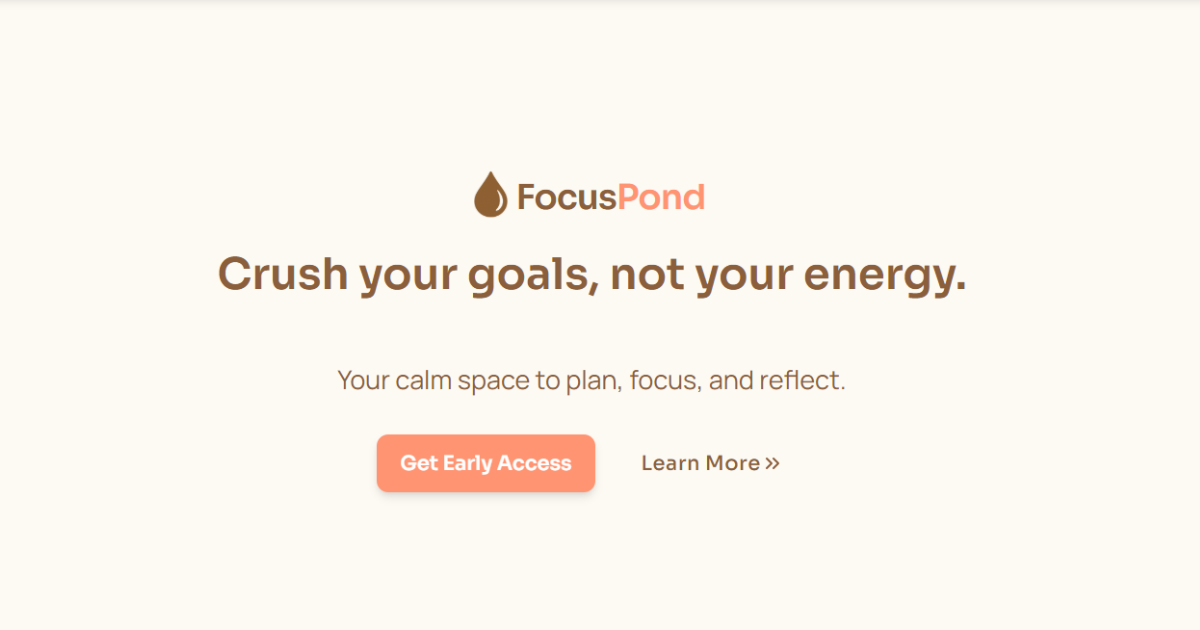
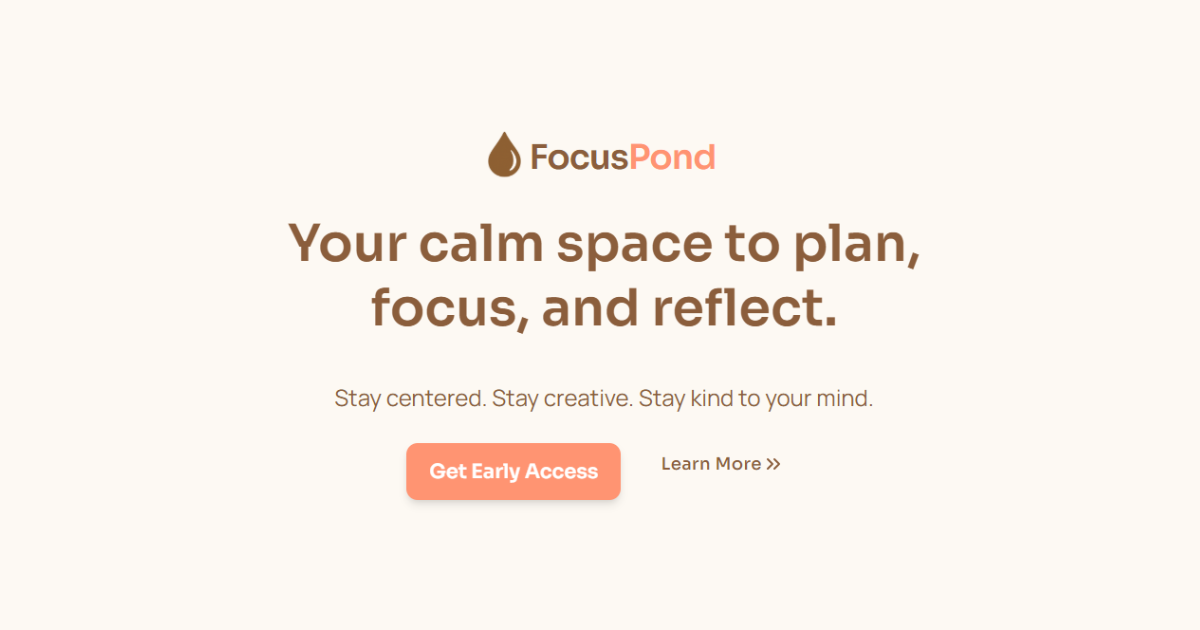
bug: restore hero section and fixed build error

Changed region(s): [[0.185, 0.2111, 0.8017, 0.5429], [0.2775, 0.573, 0.74, 0.8143]]

diff --git a/src/app/(landing-page)/_components/Hero.tsx b/src/app/(landing-page)/_components/Hero.tsx
@@ -1,113 +1,35 @@
 "use client";
 
-// import clsx from "clsx";
-// import heroImage from "../../../../public/lotties/hero-illustration-3.json";
-import { BrandLogo, Button } from "@/components/ui";
-// import { useLottie } from "lottie-react";
+import clsx from "clsx";
+import heroImage from "../../../../public/lotties/hero-illustration-3.json";
+import { Button } from "@/components/ui";
+import { useLottie } from "lottie-react";
 import { ChevronsRight } from "lucide-react";
-// import { useEffect, useState } from "react";
-import Link from "next/link";
+import { useEffect, useState } from "react";
 
 const Hero = () => {
-//   const [isLoaded, setIsLoaded] = useState<boolean>(false);
+  const [isLoaded, setIsLoaded] = useState<boolean>(false);
 
-//   const options = { animationData: heroImage, loop: true, autoplay: true };
-//   const { View, animationItem } = useLottie(options);
+  const options = { animationData: heroImage, loop: true, autoplay: true };
+  const { View, animationItem } = useLottie(options);
 
-//   useEffect(() => {
-//     if (animationItem) setIsLoaded(true);
-//   }, [animationItem]);
-
-
-
-//  <div className="grid lg:grid-cols-2 lg:gap-12 gap-4 items-center">
-//         {/* Text Section */}
-//         <div>
-//           <h1>Crush your goals, not your energy.</h1>
-//           <p className="font-manrope mt-6 text-base sm:text-lg max-w-md">
-//             Focuspond is a productivity and wellness web app that helps you stay
-//             focused, take mindful breaks, and end your day with calm clarity.
-//           </p>
-//           <div className="mt-8 flex sm:space-x-4">
-//             <Button
-//               href="/waitlist"
-//               size="lg"
-//               aria-label="Sign up for FocusPond"
-//               className="relative overflow-hidden font-semibold group"
-//             >
-//               <span className="relative z-10">Get Early Access</span>
-//               <span className="absolute inset-0 animate-shimmer bg-linear-to-r from-transparent to-transparent opacity-0 group-hover:opacity-100 transition-opacity duration-300" />
-//             </Button>
-
-//             <div className="hidden sm:block">
-//               <Button
-//                 variant="ghost"
-//                 href="#benefits"
-//                 size="sm"
-//               >
-//                 <div className="inline-flex group font-medium hover:underline tracking-wide">
-//                   <span>Learn More</span>
-//                   <ChevronsRight
-//                     aria-hidden="true"
-//                     className="size-4 self-center group-hover:translate-x-0.5 will-change-transform transition-transform duration-300"
-//                   />
-//                 </div>
-//               </Button>
-//             </div>
-//           </div>
-//         </div>
-
-
-//         {/* Visual Section */}
-//         <div
-//           className={clsx(
-//             "md:mb-14 lg:mb-16 relative aspect-146/101 overflow-hidden",
-//             !isLoaded && "bg-gray-300/30 rounded-xl mt-8 lg:mt-0"
-//           )}
-//         >
-//           {!isLoaded && <span className="absolute inset-0 animate-shimmer" />}
-
-//           <div
-//             className={clsx(
-//               "transition-opacity duration-500 w-full h-full",
-//               isLoaded ? "opacity-100" : "opacity-0"
-//             )}
-//           >
-//             {View}
-//           </div>
-//         </div>
-//       </div>
-
-
-
+  useEffect(() => {
+    if (animationItem) setIsLoaded(true);
+  }, [animationItem]);
 
   return (
     <section className="hero-section-wrapper content-center pb-5 md:pb-0">
-     
-{/* testing to be deleted */}
-      <div className="flex flex-col items-center justify-center pt-10 pb-32">
-          <div className="flex items-center">
-          <div className="-ml-4">
-            <BrandLogo />
-          </div>
-          <Link
-            href="/"
-            className="text-walnut-brown font-sora text-2xl font-semibold tracking-tight -ml-2 pt-1"
-            title="Go to the homepage"
-            aria-label="Go to the homepage"
-          >
-            <span>Focus</span>
-            <span className="text-accent-button">Pond</span>
-          </Link>
-        </div>
-          <h1 className="text-4xl mt-4 max-w-md mx-auto text-center">Your calm space to plan, focus, and reflect.</h1>
-          <p className="font-manrope mt-9 text-base max-w-md">
-            Stay centered. Stay creative. Stay kind to your mind.
+      <div className="grid lg:grid-cols-2 lg:gap-12 gap-4 items-center">
+        {/* Text Section */}
+        <div>
+          <h1>Crush your goals, not your energy.</h1>
+          <p className="font-manrope mt-6 text-base sm:text-lg max-w-md">
+            Stay focused, take mindful breaks, and end your day with clarity.
           </p>
-          <div className="mt-5 flex sm:space-x-4">
+          <div className="mt-8 flex sm:space-x-4">
             <Button
               href="/waitlist"
-              size="sm"
+              size="lg"
               aria-label="Sign up for FocusPond"
               className="relative overflow-hidden font-semibold group"
             >
@@ -115,11 +37,11 @@ const Hero = () => {
               <span className="absolute inset-0 animate-shimmer bg-linear-to-r from-transparent to-transparent opacity-0 group-hover:opacity-100 transition-opacity duration-300" />
             </Button>
 
-            <div className="hidden sm:block">
+            <div className="hidden sm:flex justify-center items-center">
               <Button
                 variant="ghost"
                 href="#benefits"
-                size="xs"
+                size="sm"
               >
                 <div className="inline-flex group font-medium hover:underline tracking-wide">
                   <span>Learn More</span>
@@ -132,6 +54,26 @@ const Hero = () => {
             </div>
           </div>
         </div>
+
+        {/* Visual Section */}
+        <div
+          className={clsx(
+            "md:mb-14 lg:mb-16 relative aspect-146/101 overflow-hidden",
+            !isLoaded && "bg-gray-300/30 rounded-xl mt-8 lg:mt-0"
+          )}
+        >
+          {!isLoaded && <span className="absolute inset-0 animate-shimmer" />}
+
+          <div
+            className={clsx(
+              "transition-opacity duration-500 w-full h-full",
+              isLoaded ? "opacity-100" : "opacity-0"
+            )}
+          >
+            {View}
+          </div>
+        </div>
+      </div>
     </section>
   );
 };

diff --git a/src/app/(landing-page)/_components/Features.tsx b/src/app/(landing-page)/_components/Features.tsx
@@ -38,7 +38,7 @@ const Features = () => {
                     rounded="2xl"
                     shadow="md"
                     className={clsx(
-                      "px-6 py-8 border border-light-background/40 relative hover:shadow-lg hover:translate-y-[-4px] transition-transform duration-200",
+                      "px-6 py-8 border border-light-background/40 relative hover:shadow-lg hover:-translate-y-1 transition-transform duration-200",
                       bgColor
                     )}
                   >
